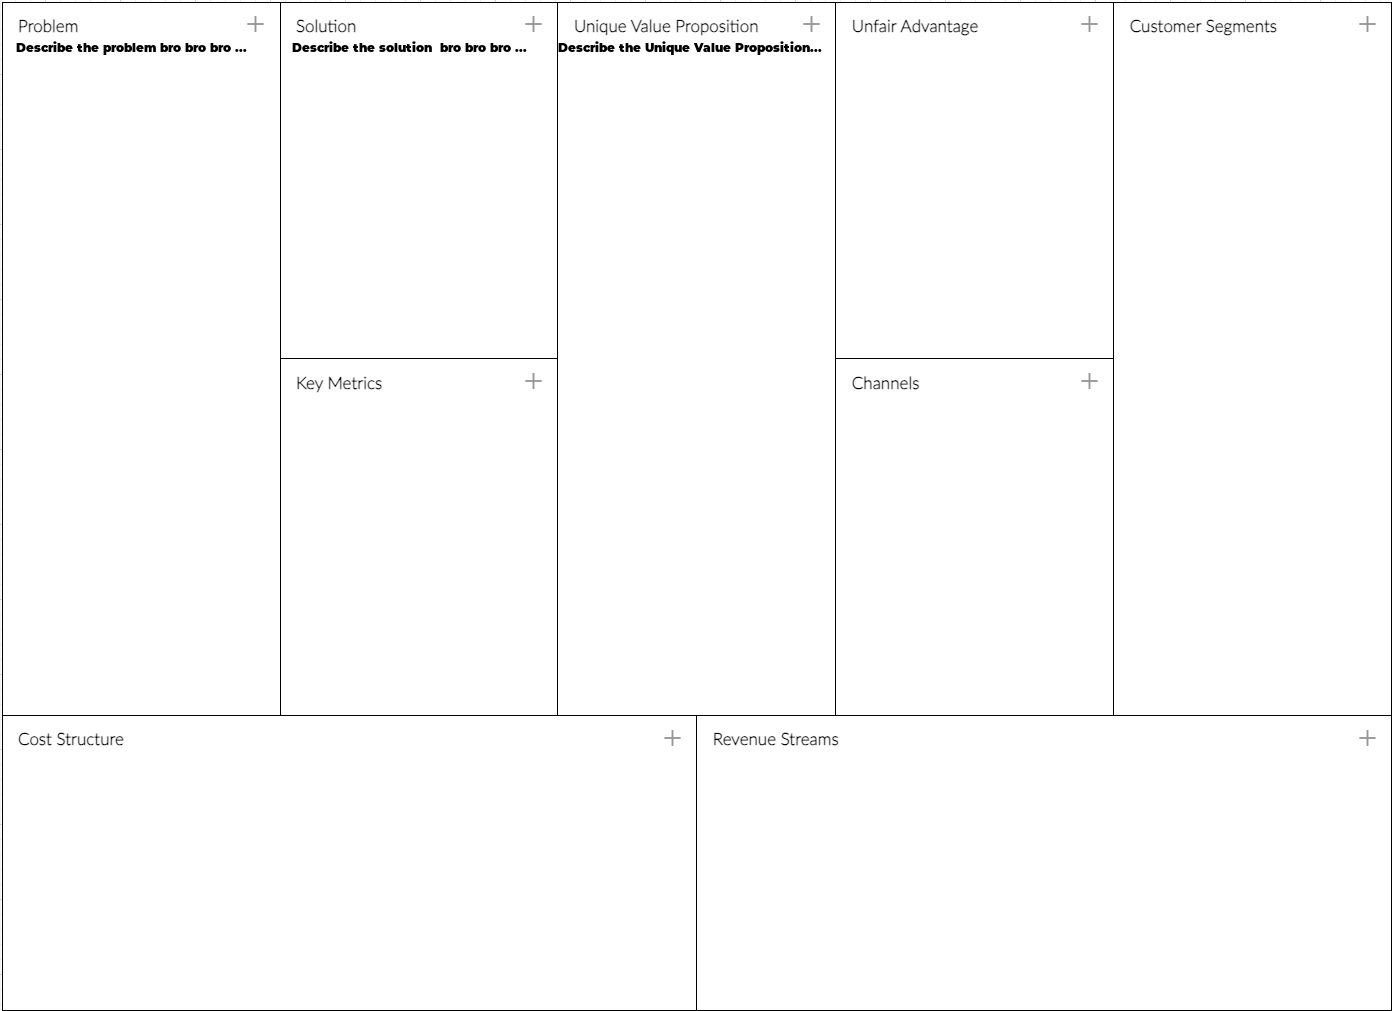
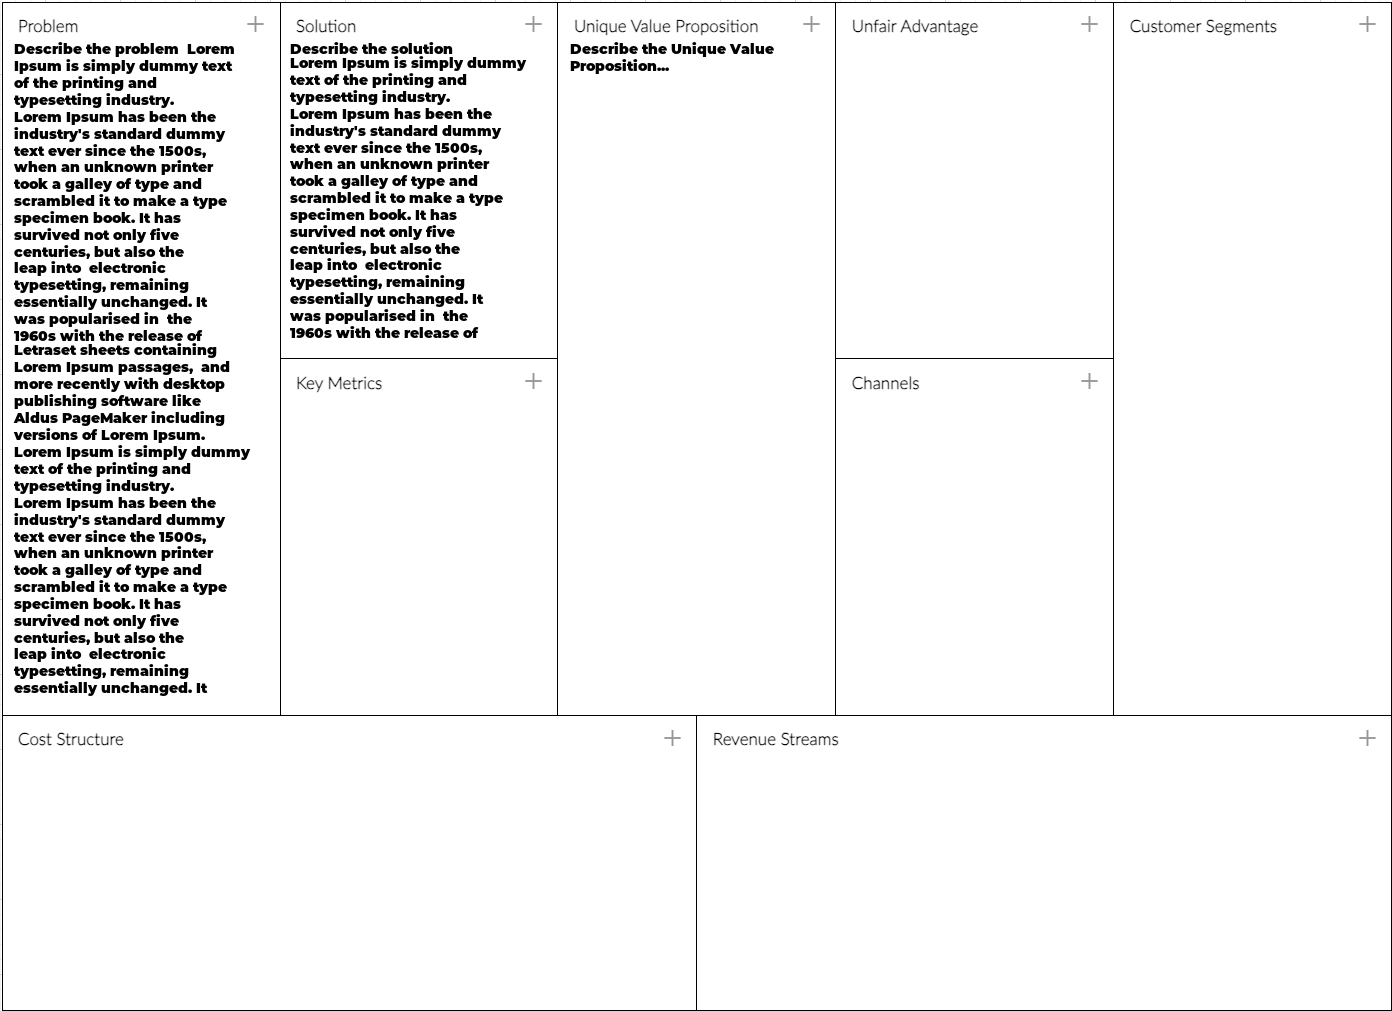
fix `draw.py`, successfully truncates text and stays within box vert & horiz

Changed region(s): [[0.0, 0.0307, 0.1853, 0.7052], [0.1853, 0.0307, 0.3707, 0.3373], [0.4016, 0.0307, 0.5869, 0.092]]

diff --git a/scripts/draw.py b/scripts/draw.py
@@ -8,7 +8,7 @@ draw = ImageDraw.Draw(image_template)
 
 # Choose a font and size
 font_path = '../fonts/Montserrat-Black.otf'  # Update to the path of a font file
-font_size = 12
+font_size = 14
 font = ImageFont.truetype(font_path, font_size)
 
 # Define the coordinates for each box on the Lean Canvas (left, top, right, bottom)
@@ -18,9 +18,9 @@ horiz_top_y2 = 400
 horiz_bottom_y2 = 700
 horiz_top_y3 = 760
 horiz_bottom_y3 = 1000
-vert_left_x1 = 4
+vert_left_x1 = 14
 vert_right_x1 = 260
-vert_left_x2 = 280
+vert_left_x2 = 290
 vert_right_x2 = 540
 vert_left_x3 = 570
 vert_right_x3 = 810
@@ -50,11 +50,11 @@ electronic typesetting, remaining essentially unchanged. It was popularised in
 the 1960s with the release of Letraset sheets containing Lorem Ipsum passages, 
 and more recently with desktop publishing software like Aldus PageMaker including 
 versions of Lorem Ipsum.
-"""
+""" * 2
 # Define the text content for each box
 box_texts = {
-    "Problem": "Describe the problem bro bro bro ...",
-    "Solution": "Describe the solution \nbro bro bro ...",
+    "Problem": f"Describe the problem {filler_text}...",
+    "Solution": f"Describe the solution {filler_text}...",
     "Unique Value Proposition": "Describe the Unique Value Proposition...",
     # "Unfair Advantage": "Describe the Unfair Advantage...",
     # "Channels": "Describe the Unfair Advantage...",
@@ -65,10 +65,8 @@ box_texts = {
 
 # Function to wrap and position text within a box
 def draw_text_in_box(draw, text, box, font):
-    print(len(text))
     x1, y1, x2, y2 = box
     box_width = x2 - x1
-    box_height = y2 - y1
 
     # Estimate characters per line based on average character width at the given font size
     average_char_width = draw.textlength('x', font=font)
@@ -79,22 +77,17 @@ def draw_text_in_box(draw, text, box, font):
 
     y_offset = y1
     for line in lines:
-        # Get text dimensions using textlength and getsize
-        text_width = draw.textlength(line, font=font)
-        print(text_width)
-        # text_height = font.getsize(line)[1]  # Use font.getsize for height
-        text_height = font.getbbox(line)[3]
-        print(text_height)
+        # Get text dimensions for height
+        text_height = draw.textbbox((0, 0), line, font=font)[3]
 
         # Check if there's enough vertical space left to draw the text
         if y_offset + text_height <= y2:
-            x_offset = x1 + (box_width - text_width) // 2  # Center text horizontally
-            draw.text((x_offset, y_offset), line, fill=(0, 0, 0), font=font)
+            # Left align text by using x1 as the x_offset
+            draw.text((x1, y_offset), line, fill=(0, 0, 0), font=font)
             y_offset += text_height
         else:
             # Stop if the text exceeds the box height
             break
-
 
 
 # Iterate over each box and draw the text
@@ -105,41 +98,3 @@ for box_name, text in box_texts.items():
 updated_canvas_path = '../images/drawn_lean_canvas.png'
 image_template.save(updated_canvas_path)
 image_template.show()
-
-
-# Coordinates: (17, 41)
-# Coordinates: (265, 44)
-# Coordinates: (26, 691)
-# Coordinates: (262, 695)
-# Coordinates: (295, 51)
-# Coordinates: (545, 49)
-# Coordinates: (299, 336)
-# Coordinates: (537, 338)
-# Coordinates: (298, 403)
-# Coordinates: (535, 401)
-# Coordinates: (299, 695)
-# Coordinates: (537, 694)
-# Coordinates: (574, 47)
-# Coordinates: (820, 51)
-# Coordinates: (575, 696)
-# Coordinates: (817, 701)
-# Coordinates: (848, 46)
-# Coordinates: (1098, 46)
-# Coordinates: (850, 339)
-# Coordinates: (1098, 338)
-# Coordinates: (848, 404)
-# Coordinates: (1101, 407)
-# Coordinates: (851, 695)
-# Coordinates: (1098, 699)
-# Coordinates: (1124, 41)
-# Coordinates: (1376, 47)
-# Coordinates: (1130, 694)
-# Coordinates: (1378, 699)
-# Coordinates: (20, 761)
-# Coordinates: (682, 762)
-# Coordinates: (26, 988)
-# Coordinates: (680, 996)
-# Coordinates: (715, 759)
-# Coordinates: (1374, 754)
-# Coordinates: (714, 994)
-# Coordinates: (1375, 995)
